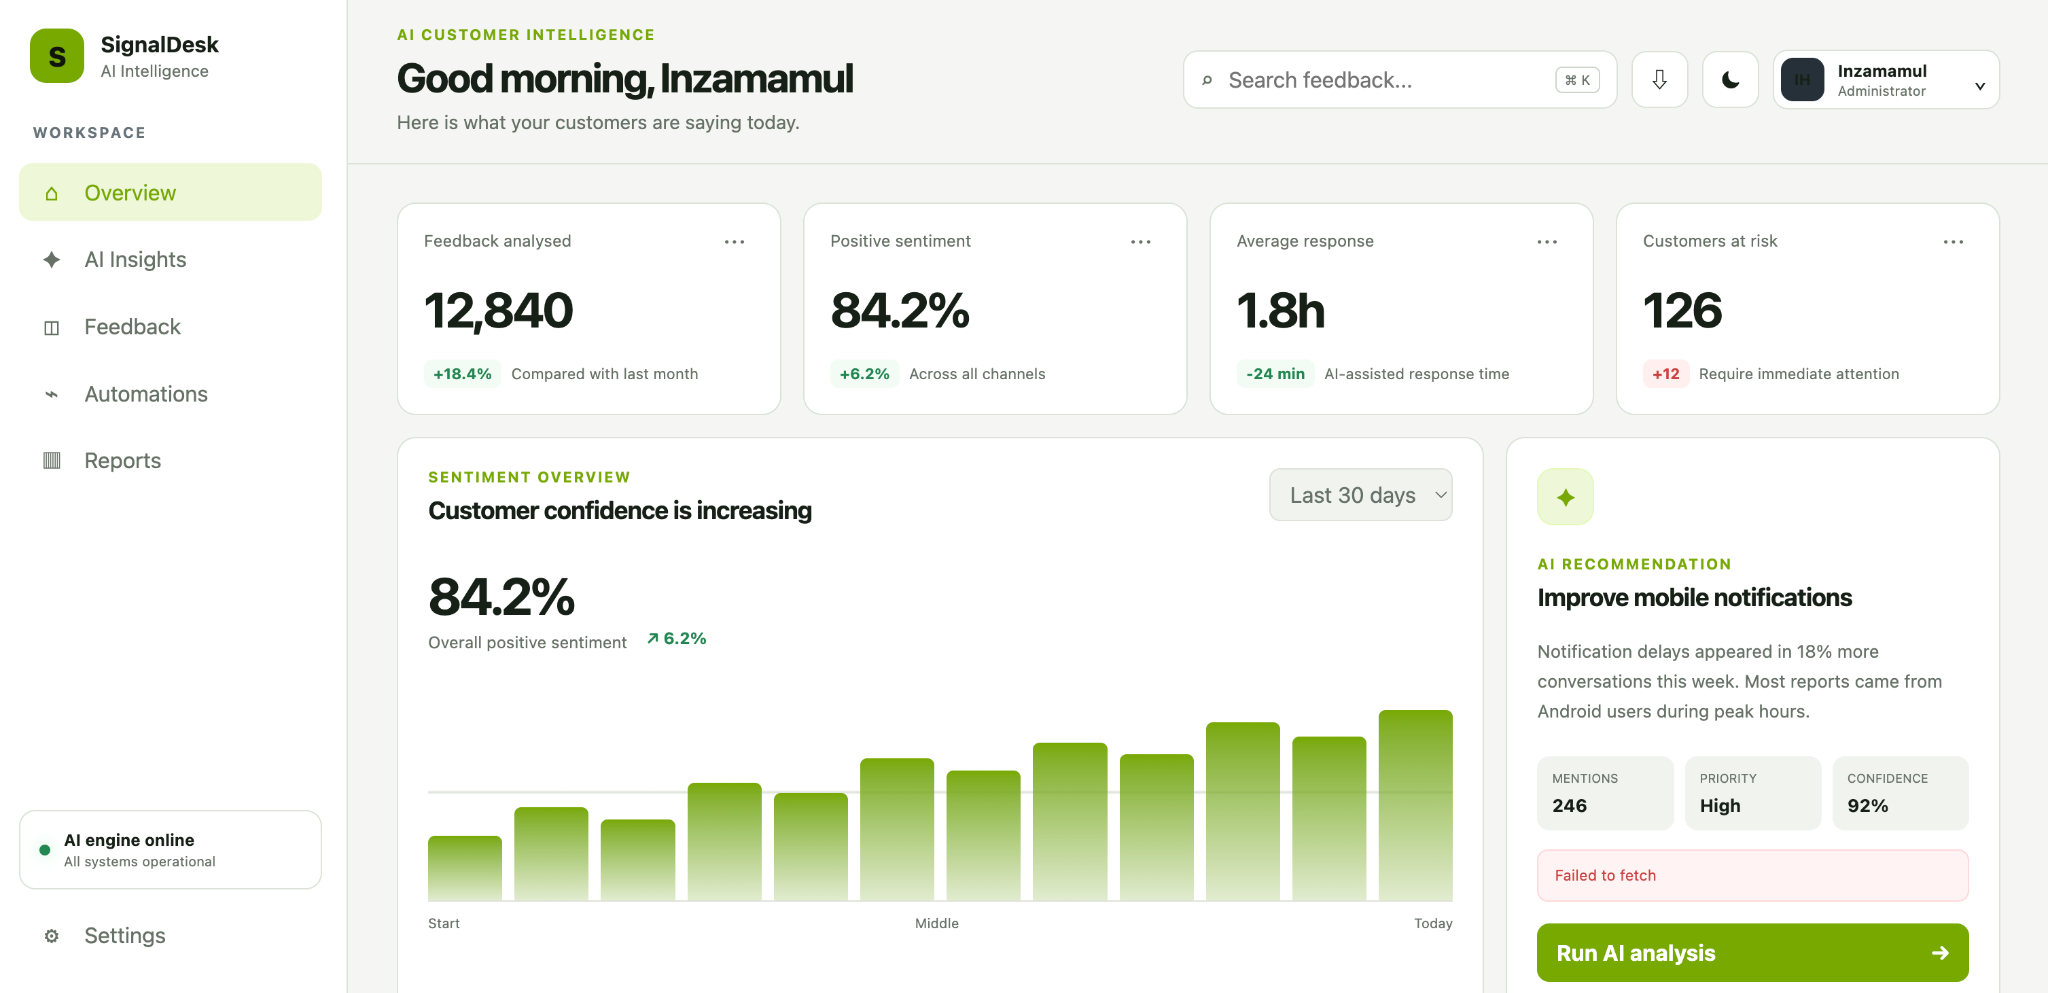
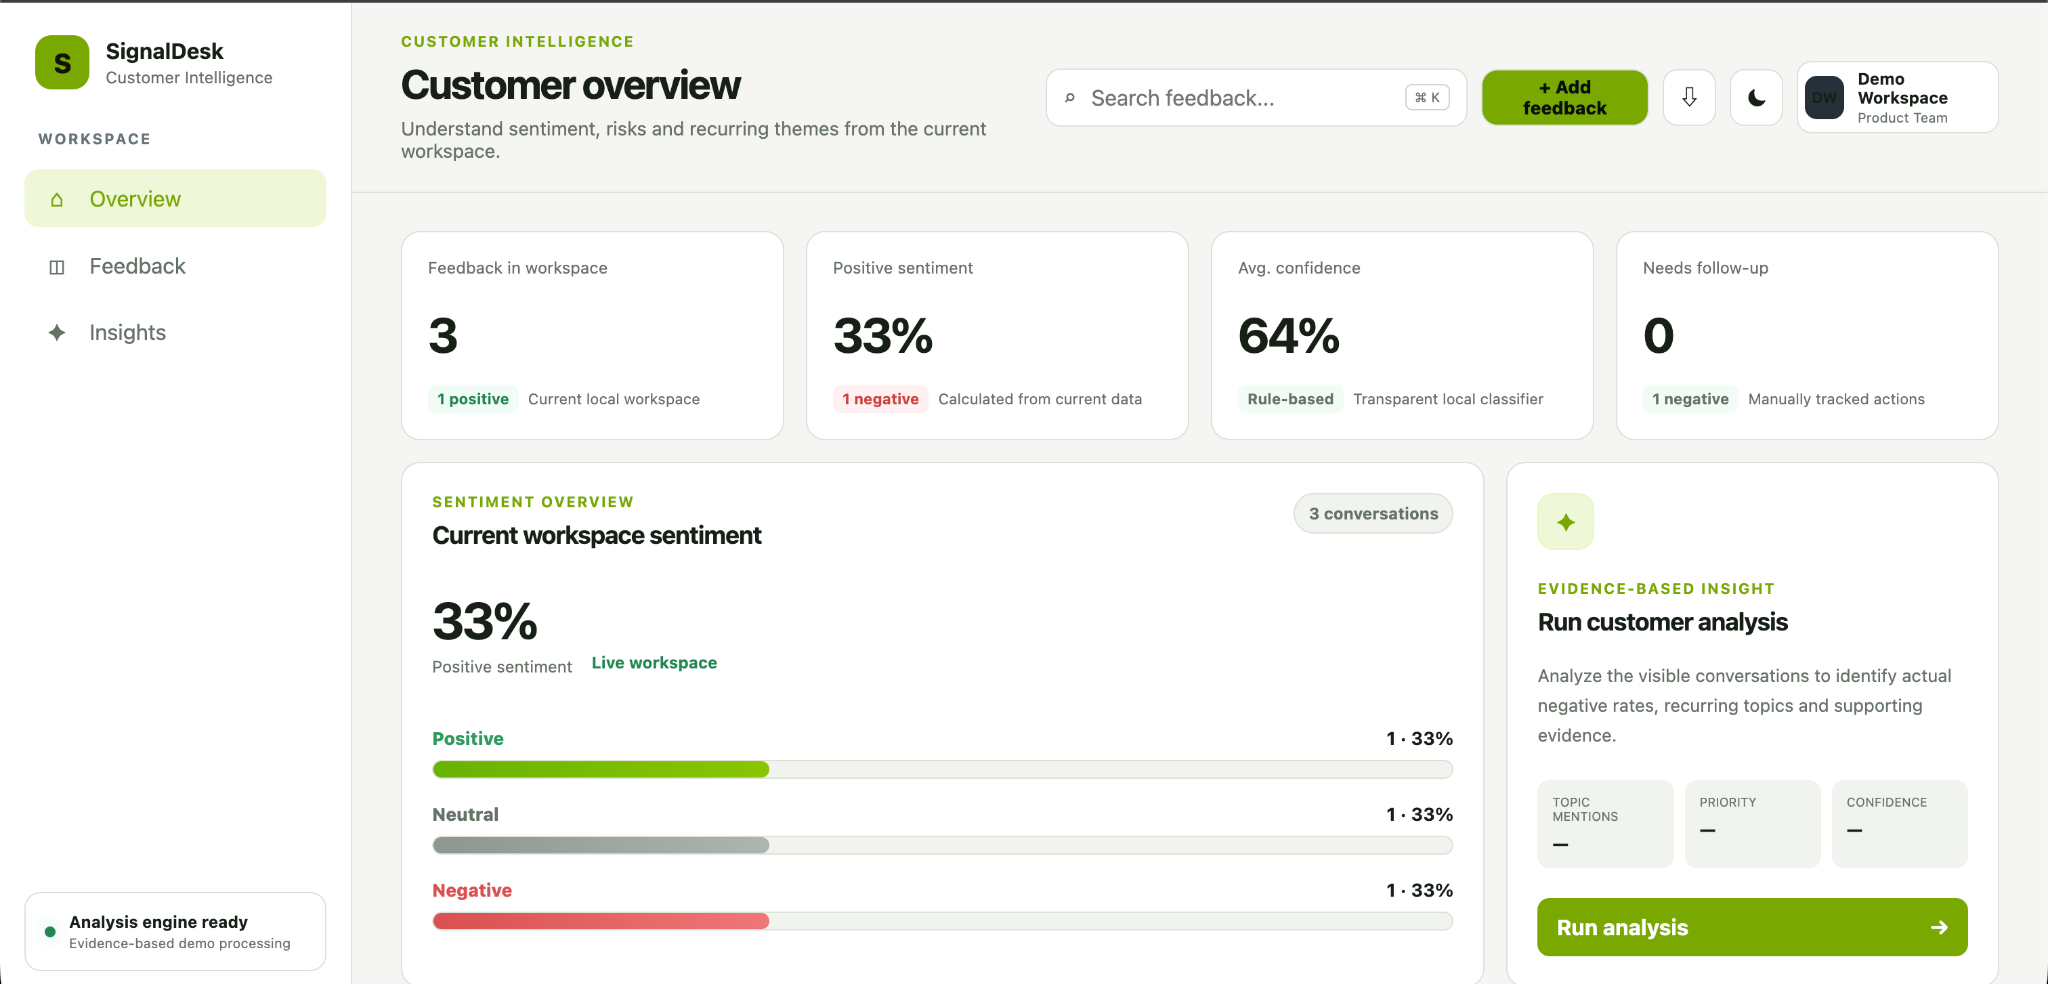
Update SignalDesk screenshot and tests

diff --git a/src/App.test.jsx b/src/App.test.jsx
@@ -13,7 +13,7 @@ describe("macOS portfolio desktop", () => {
     expect(screen.getByText("Mobile engineering case study")).toBeInTheDocument();
 
     fireEvent.click(screen.getByRole("button", { name: "Projects" }));
-    expect(screen.getByRole("heading", { name: "SignalDesk AI" })).toBeInTheDocument();
+    expect(screen.getByRole("heading", { name: "SignalDesk" })).toBeInTheDocument();
 
     fireEvent.click(screen.getByRole("button", { name: "Open Spotlight search" }));
     expect(screen.getByRole("textbox", { name: "Spotlight search" })).toBeInTheDocument();
